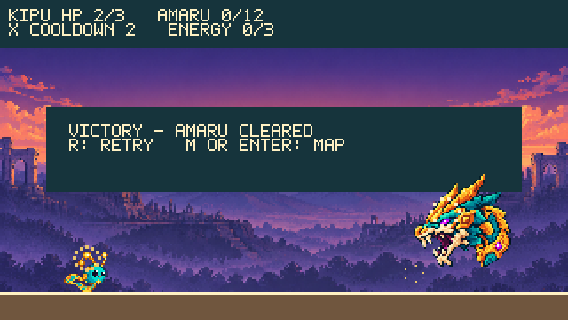
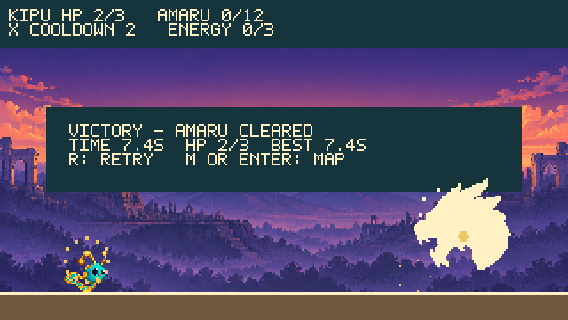
feat: add reduce-motion option and game-feel polish
Reduce motion starts from prefers-reduced-motion with a page override and
gates shake, flicker, sway, particles and squash/stretch. Adds a typed
title and breathing Kipu on the map, a victory panel with time and best,
and press feedback on page buttons. Principles adapted from public UI
motion guidance are recorded in the project skill references.

diff --git a/src/game/GuardianScene.ts b/src/game/GuardianScene.ts
@@ -8,6 +8,7 @@ import { KIPU_FRAMES, ParticlePool, bossAngle, burst, chargeLevel, drawParticles
 import { KipuAnimator } from './kipuAnimator';
 import { ensureKipuFrames } from './kipuTextures';
 import { sfx } from './sfx';
+import { motion } from './motion';
 import { initialProgress } from './challengeRules';
 import { VIEW_EVENT, FOCUS_EVENT, type ViewState } from './viewState';
 import kipuUrl from '../../assets/prepared/kipu-v4-32x40.png';
@@ -85,7 +86,7 @@ export class GuardianScene extends Phaser.Scene {
     const floor=this.physics.add.staticImage(160,172,'platform').setDisplaySize(320,16).refreshBody().setVisible(false);
     this.player=this.physics.add.sprite(48,145,'kipu-evaluation').setOrigin(0.5,0.55).setSize(12,18).setOffset(10,14).setCollideWorldBounds(true).setDepth(5);
     this.physics.add.collider(this.player,floor);
-    this.fx=new ParticlePool(64); this.fxGraphics=this.add.graphics().setDepth(6);
+    this.fx=new ParticlePool(64,() => motion.reduced); this.fxGraphics=this.add.graphics().setDepth(6);
     this.animator=new KipuAnimator(this.player,this.fx);
     this.boss=this.physics.add.sprite(260,126,'amaru-head').setDepth(4);
     (this.boss.body as Phaser.Physics.Arcade.Body).setAllowGravity(false).setImmovable(true);
@@ -112,7 +113,7 @@ export class GuardianScene extends Phaser.Scene {
         this.heroHP=damage(this.heroHP,1); this.invulnerableUntil=this.clock+COMBAT.invulnerability;
         sfx.play('heroHit');
         burst(this.fx,this.player.x,this.player.y-4,10,60,320,'violet',this.anim,2);
-        this.cameras.main.shake(110,0.006);
+        if (!motion.reduced) this.cameras.main.shake(110,0.006);
         this.finishIfNeeded();
       }
     });
@@ -177,13 +178,13 @@ export class GuardianScene extends Phaser.Scene {
     const body=this.player.body as Phaser.Physics.Arcade.Body;
     if (this.ending==='playing') {
       this.animator.update({now:this.anim,grounded:body.blocked.down||body.touching.down,velocityX:body.velocity.x,velocityY:body.velocity.y,
-        facing:this.facing,footX:this.player.x,footY:body.bottom,nokia:this.palette});
+        facing:this.facing,footX:this.player.x,footY:body.bottom,nokia:this.palette,reduced:motion.reduced});
       if (this.animator.event==='land') sfx.play('land');
     } else if (this.ending==='defeat') this.animator.hold('squash',false);
     let flash=this.anim<this.bossFlashUntil,angle=0,alpha=1;
     if (this.ending==='victory') {
       const t=this.anim-this.deathAt;
-      flash=t<500 && Math.floor(t/70)%2===0; angle=t<500 ? Math.sin(t/30)*4 : 0; alpha=t<500 ? 1 : Math.max(0,1-(t-500)/500);
+      flash=!motion.reduced && t<500 && Math.floor(t/70)%2===0; angle=!motion.reduced && t<500 ? Math.sin(t/30)*4 : 0; alpha=t<500 ? 1 : Math.max(0,1-(t-500)/500);
       while (this.deathBursts<3 && t>=this.deathBursts*180) {
         const i=this.deathBursts++;
         burst(this.fx,this.boss.x-10+i*10,this.boss.y-8+(i%2)*14,10,70,520,i%2?'gold':'light',this.anim,2);
@@ -194,7 +195,7 @@ export class GuardianScene extends Phaser.Scene {
         const elapsed=this.clock-this.attackStart,stage=attackStage(elapsed);
         phase=stage; phaseElapsed=stage==='anticipation'?elapsed:stage==='action'?elapsed-800:elapsed-1300;
       }
-      angle=bossAngle(phase,phaseElapsed,this.anim);
+      angle=motion.reduced ? 0 : bossAngle(phase,phaseElapsed,this.anim);
     }
     const key=flash ? (this.palette?'amaru-head-flash-nokia':'amaru-head-flash') : (this.palette?'amaru-head-nokia':'amaru-head');
     if (this.boss.texture.key!==key) this.boss.setTexture(key);
@@ -262,7 +263,14 @@ export class GuardianScene extends Phaser.Scene {
     this.publishView();
     for (const group of [this.shots,this.enemies]) for(const child of group.getChildren()) (child as Sprite).disableBody(true,true);
     this.physics.world.pause(); this.player.setVisible(true); this.togglePalette(false);
-    this.draw(); this.result.setText(`${this.ending.toUpperCase()} - ${this.ending==='victory'?'AMARU CLEARED':'TRY AGAIN'}\nR: RETRY   M OR ENTER: MAP`);
+    this.draw(); this.result.setText(`${this.ending.toUpperCase()} - ${this.ending==='victory'?'AMARU CLEARED':'TRY AGAIN'}\n${this.statsLine()}R: RETRY   M OR ENTER: MAP`);
+  }
+  // Session-only stats on the victory panel; read from the owned clock, never fed back into combat.
+  private statsLine(): string {
+    if (this.ending!=='victory') return '';
+    const time=this.clock/1000,best=Math.min(time,this.registry.get('bestTime') ?? Infinity);
+    this.registry.set('bestTime',best);
+    return `TIME ${time.toFixed(1)}S  HP ${this.heroHP}/3  BEST ${best.toFixed(1)}S\n`;
   }
   private text(x:number,y:number,text:string): Phaser.GameObjects.BitmapText { return this.add.bitmapText(x,y,RETRO_FONT,text,6).setTint(0xfff1c3); }
   private preparePalette(key:string): void {
@@ -308,7 +316,7 @@ export class GuardianScene extends Phaser.Scene {
     }
     if(active) {
       // Hard-pixel square aura and orbiting stored energy avoid blended fifth colors.
-      const inset=Math.floor(this.anim/200)%2 ? 2 : 0;
+      const inset=!motion.reduced && Math.floor(this.anim/200)%2 ? 2 : 0;
       this.pixelFrame(Math.round(this.player.x)-52+inset,Math.round(this.player.y)-52+inset,104-2*inset,104-2*inset,colors[2]);
       for(let i=0;i<this.shift.captured;i++) {
         const angle=this.clock/190+i*Math.PI*2/3;

diff --git a/src/game/MapScene.ts b/src/game/MapScene.ts
@@ -4,14 +4,22 @@ import { RETRO_FONT } from './retroFont';
 import { initialProgress, type Progress } from './challengeRules';
 import { VIEW_EVENT, type ViewState } from './viewState';
 import { headUrl, arenaUrl } from './demoAssets';
-import { bossAngle } from './animation';
+import { bossAngle, kipuFrame, kipuTextureKey } from './animation';
+import { ensureKipuFrames } from './kipuTextures';
+import { motion } from './motion';
+import kipuUrl from '../../assets/prepared/kipu-v4-32x40.png';
 import { sfx } from './sfx';
 
 export class MapScene extends Phaser.Scene {
   private head!: Phaser.GameObjects.Image;
   private cursor!: Phaser.GameObjects.Graphics;
+  private kipu!: Phaser.GameObjects.Image;
+  private title!: Phaser.GameObjects.BitmapText;
+  private titleStart = 0;
+  private titleDone = true;
   constructor() { super('MapScene'); }
   preload(): void {
+    if (!this.textures.exists('kipu-evaluation')) this.load.image('kipu-evaluation', kipuUrl);
     if (!this.textures.exists('amaru-head')) this.load.image('amaru-head', headUrl);
     if (!this.textures.exists('amaru-arena')) this.load.image('amaru-arena', arenaUrl);
   }
@@ -19,7 +27,14 @@ export class MapScene extends Phaser.Scene {
     if (!this.registry.has('progress')) this.registry.set('progress', initialProgress());
     createRetroFont(this);
     this.cameras.main.setBackgroundColor(0x122e36);
-    this.text(46, 12, 'CHOOSE YOUR CHALLENGE', 0xedc76c);
+    // The title types in once per session; every later visit is instant (keyboard-initiated returns never animate).
+    this.title = this.text(46, 12, 'CHOOSE YOUR CHALLENGE', 0xedc76c);
+    this.titleDone = motion.reduced || this.registry.get('introSeen') === true;
+    this.titleStart = -1; // anchored to the first update frame
+    if (!this.titleDone) this.title.setText('');
+    this.registry.set('introSeen', true);
+    ensureKipuFrames(this);
+    this.kipu = this.add.image(176, 94, 'kipu-evaluation');
     this.add.image(86, 78, 'amaru-arena').setDisplaySize(128,72).setAlpha(0.65);
     this.head = this.add.image(232, 78, 'amaru-head');
     this.cursor = this.add.graphics();
@@ -41,8 +56,17 @@ export class MapScene extends Phaser.Scene {
   }
   // Purely visual: idle sway on the guardian preview and a bobbing pixel cursor beside the default action.
   update(time: number): void {
-    this.head.setAngle(bossAngle('idle', 0, time));
-    const nudge = Math.floor(time / 400) % 2;
+    const reduced = motion.reduced;
+    this.head.setAngle(reduced ? 0 : bossAngle('idle', 0, time));
+    const frame = reduced ? 'idle' : kipuFrame({ grounded: true, velocityX: 0, velocityY: 0, now: time, landedAt: -Infinity });
+    this.kipu.setTexture(kipuTextureKey(frame, false));
+    if (!this.titleDone) {
+      if (this.titleStart < 0) this.titleStart = time;
+      const full = 'CHOOSE YOUR CHALLENGE', shown = Math.floor((time - this.titleStart) / 30);
+      this.title.setText(full.slice(0, Math.max(0, shown)));
+      this.titleDone = shown >= full.length;
+    }
+    const nudge = reduced ? 0 : Math.floor(time / 400) % 2;
     this.cursor.clear().fillStyle(0xedc76c);
     for (let column = 0; column < 4; column++) this.cursor.fillRect(57 + nudge + column, 139 + column, 1, 7 - 2 * column);
   }

diff --git a/tests/motion.test.ts b/tests/motion.test.ts
@@ -1,0 +1,35 @@
+import { describe, expect, it } from 'vitest';
+import { Motion } from '../src/game/motion';
+import { ParticlePool, bossAngle } from '../src/game/animation';
+import { KipuAnimator } from '../src/game/kipuAnimator';
+
+describe('Motion preference', () => {
+  it('starts from the system preference and can be overridden both ways', () => {
+    const m = new Motion(() => true);
+    expect(m.reduced).toBe(true);
+    m.set(false); expect(m.reduced).toBe(false);
+    expect(new Motion(() => false).reduced).toBe(false);
+  });
+  it('defaults to full motion when matchMedia is unavailable', () => {
+    expect(new Motion().reduced).toBe(false);
+  });
+});
+
+describe('reduced motion gates decorative effects only', () => {
+  it('suppresses particle emission while the predicate holds', () => {
+    let reduced = true;
+    const pool = new ParticlePool(4, () => reduced);
+    expect(pool.emit({ x: 0, y: 0, vx: 0, vy: 0, ttl: 100, slot: 'light', size: 1 }, 0)).toBe(false);
+    reduced = false;
+    expect(pool.emit({ x: 0, y: 0, vx: 0, vy: 0, ttl: 100, slot: 'light', size: 1 }, 0)).toBe(true);
+  });
+  it('keeps Kipu on the neutral frame when reduced', () => {
+    const s = { texture: { key: 'kipu-evaluation' }, setTexture(key: string) { s.texture.key = key; } };
+    const a = new KipuAnimator(s, new ParticlePool(8));
+    a.update({ now: 0, grounded: false, velocityX: 0, velocityY: -250, facing: 1, footX: 0, footY: 0, nokia: false, reduced: true });
+    expect(s.texture.key).toBe('kipu-evaluation');
+  });
+  it('lets the boss angle callers zero rotation; the pure function itself stays bounded', () => {
+    expect(Math.abs(bossAngle('anticipation', 800, 0))).toBeLessThanOrEqual(12);
+  });
+});

diff --git a/src/game/ArcadeScene.ts b/src/game/ArcadeScene.ts
@@ -9,6 +9,7 @@ import { ParticlePool, burst, drawParticles } from './animation';
 import { KipuAnimator } from './kipuAnimator';
 import { ensureKipuFrames } from './kipuTextures';
 import { sfx } from './sfx';
+import { motion } from './motion';
 import { arenaUrl } from './demoAssets';
 import { VIEW_EVENT, FOCUS_EVENT, type ViewState } from './viewState';
 import kipuEvaluationUrl from '../../assets/prepared/kipu-v4-32x40.png';
@@ -103,7 +104,7 @@ export class ArcadeScene extends Phaser.Scene {
     // Align the occupied scarf edge to the surface while preserving the body at (-6, -8).
     this.player.setSize(12, 18).setOffset(10, 14);
     this.physics.add.collider(this.player, platforms);
-    this.fx = new ParticlePool(64);
+    this.fx = new ParticlePool(64, () => motion.reduced);
     this.fxGraphics = this.add.graphics().setDepth(6);
     this.animator = new KipuAnimator(this.player, this.fx);
 
@@ -197,7 +198,7 @@ export class ArcadeScene extends Phaser.Scene {
     const body = this.player.body as Phaser.Physics.Arcade.Body;
     if (!this.completed) {
       this.animator.update({ now: this.animClock, grounded: body.blocked.down || body.touching.down, velocityX: body.velocity.x, velocityY: body.velocity.y,
-        facing: this.facing, footX: this.player.x, footY: body.bottom, nokia: false });
+        facing: this.facing, footX: this.player.x, footY: body.bottom, nokia: false, reduced: motion.reduced });
       if (this.animator.event === 'land') sfx.play('land');
     }
     const cycle = Math.floor(this.animClock / 1100);

diff --git a/src/main.ts b/src/main.ts
@@ -5,6 +5,7 @@ import { MapScene } from './game/MapScene';
 import { GuardianScene } from './game/GuardianScene';
 import { GAME } from './game/rules';
 import { sfx } from './game/sfx';
+import { motion } from './game/motion';
 import { initialProgress } from './game/challengeRules';
 import { VIEW_EVENT, FOCUS_EVENT, sceneForView, viewCopy, type ViewState, type View } from './game/viewState';
 
@@ -43,6 +44,13 @@ function focusState(): void {
   sfx.setActive(active);
   game.events.emit(FOCUS_EVENT,active);
 }
+function syncMotionButton():void {
+  const button=document.getElementById('motion')!;
+  button.textContent=motion.reduced?'Reduce motion: on':'Reduce motion: off';
+  button.setAttribute('aria-pressed',String(motion.reduced));
+}
+function toggleMotion():void { motion.set(!motion.reduced); syncMotionButton(); host!.focus(); focusState(); }
+syncMotionButton();
 function toggleSound():void {
   sfx.setMuted(!sfx.isMuted());
   const button=document.getElementById('sound')!;
@@ -64,6 +72,7 @@ const clickNav=(event:Event)=>{
   if(!button) return;
   const view=button.dataset.view as View|undefined;
   if(button.id==='sound') toggleSound();
+  else if(button.id==='motion') toggleMotion();
   else if(view) navigate(view);
   else if(button.id==='choose') navigate('map');
   else if(button.id==='retry') navigate(current.view);

diff --git a/src/game/kipuAnimator.ts b/src/game/kipuAnimator.ts
@@ -6,7 +6,7 @@ export const KIPU_BAND = Object.freeze({ top: 9, bottom: 32 });
 // Structural slice of a Phaser sprite so the animator stays testable without a browser.
 export interface KipuSprite { texture: { key: string }; setTexture(key: string): unknown }
 
-export interface KipuTick { now: number; grounded: boolean; velocityX: number; velocityY: number; facing: 1 | -1; footX: number; footY: number; nokia: boolean }
+export interface KipuTick { now: number; grounded: boolean; velocityX: number; velocityY: number; facing: 1 | -1; footX: number; footY: number; nokia: boolean; reduced?: boolean }
 
 // Pure visual follower: reads physics state, never writes it. Swaps only the texture key (same 32x40 frame),
 // so origin, body size and offset are untouched.
@@ -37,7 +37,7 @@ export class KipuAnimator {
     }
     this.wasGrounded = grounded;
     this.lastVelocityY = velocityY;
-    const frame = kipuFrame({ grounded, velocityX, velocityY, now, landedAt: this.landedAt });
+    const frame = tick.reduced ? 'idle' : kipuFrame({ grounded, velocityX, velocityY, now, landedAt: this.landedAt });
     const key = kipuTextureKey(frame, nokia);
     this.frame = frame;
     if (this.sprite.texture.key !== key) this.sprite.setTexture(key);

diff --git a/src/style.css b/src/style.css
@@ -16,8 +16,14 @@ canvas { display: block; image-rendering: pixelated; }
 
 h2 { margin: 10px 0; font-size: clamp(18px, 3vw, 24px); }
 #navigation { display: flex; flex-wrap: wrap; justify-content: center; gap: 8px; margin: 12px 0 18px; }
-button { font: inherit; font-weight: 600; padding: 10px 14px; border: 1px solid #64d6c7; border-radius: 6px; background: #213f4b; color: #e7e6cf; cursor: pointer; }
+button { font: inherit; font-weight: 600; padding: 10px 14px; border: 1px solid #64d6c7; border-radius: 6px; background: #213f4b; color: #e7e6cf; cursor: pointer;
+  /* Named properties only, ease-out so feedback starts immediately; nothing animates on keyboard-driven game actions. */
+  transition: transform 120ms cubic-bezier(0.23, 1, 0.32, 1), background-color 120ms ease, border-color 120ms ease; }
+@media (hover: hover) { button:hover { background: #2a4c59; } }
+button:active { transform: scale(0.97); }
 button[aria-pressed="true"] { background: #345b60; border-color: #edc76c; }
 button:focus-visible { outline: 3px solid #edc76c; outline-offset: 3px; }
 button[hidden] { display: none; }
 #view-result { line-height: 1.5; }
+
+@media (prefers-reduced-motion: reduce) { button { transition: none; } button:active { transform: none; } }

diff --git a/src/game/animation.ts b/src/game/animation.ts
@@ -80,11 +80,12 @@ export type ParticleSpec = Omit<Particle, 'born' | 'active'>;
 // Fixed capacity, no allocation after construction; a full pool drops new particles by design.
 export class ParticlePool {
   readonly items: Particle[];
-  constructor(capacity: number) {
+  constructor(capacity: number, private readonly suppressed: () => boolean = () => false) {
     this.items = Array.from({ length: capacity }, () => ({ x: 0, y: 0, vx: 0, vy: 0, born: 0, ttl: 0, slot: 'light' as FxSlot, size: 1, active: false }));
   }
   get activeCount(): number { return this.items.reduce((count, p) => count + (p.active ? 1 : 0), 0); }
   emit(spec: ParticleSpec, now: number): boolean {
+    if (this.suppressed()) return false;
     const slot = this.items.find(p => !p.active);
     if (!slot) return false;
     Object.assign(slot, spec, { born: now, active: true });

diff --git a/src/game/motion.ts b/src/game/motion.ts
@@ -1,0 +1,13 @@
+// Session-wide "reduce motion" preference. Starts from the OS setting; the page button can override it.
+// It gates decorative motion only (shake, flicker, sway, particles, squash/stretch), never gameplay telegraphs.
+const systemPrefersReduced = (): boolean =>
+  typeof matchMedia === 'function' && matchMedia('(prefers-reduced-motion: reduce)').matches;
+
+export class Motion {
+  private value: boolean;
+  constructor(initial: () => boolean = systemPrefersReduced) { this.value = initial(); }
+  get reduced(): boolean { return this.value; }
+  set(value: boolean): void { this.value = value; }
+}
+
+export const motion = new Motion();

diff --git a/index.html b/index.html
@@ -17,6 +17,7 @@
         <button type="button" id="choose" hidden>Choose challenge</button>
         <button type="button" id="retry" hidden>Retry challenge</button>
         <button type="button" id="sound" aria-pressed="true">Sound: on</button>
+        <button type="button" id="motion" aria-pressed="false">Reduce motion: off</button>
       </nav>
       <div id="game" tabindex="0" aria-label="PachaByte keyboard-controlled game. Click to focus, then use the controls below."></div>
       <p class="controls" id="view-help"></p>

diff --git a/docs/VERIFICATION.md b/docs/VERIFICATION.md
@@ -239,3 +239,12 @@ User approved WebAudio effects. All 16 effects are generated at runtime from osc
 Observed in this checkout: typecheck exit 0; unit tests passed including 7 new sfx tests and the animator event test; build exit 0; `test:browser` serial on owned port 4175 passed in WebGL and in Canvas, including a new group that asserts effects fire from real input, the mute button silences them and focus returns to the game. Tests were written before `sfx.ts` but not executed before implementing, so no RED is claimed.
 
 Limits: automation proves that sounds are scheduled and gated, not how they sound. Loudness, pitch and taste need a human listening pass. No music. Real output-device behavior across browsers and OSes is untested.
+
+
+## Reduced motion and polish pass, October 12, 2026
+
+Added: reduce-motion option (OS `prefers-reduced-motion` initialises it; page button overrides; gates shake, flicker, sway, particles, squash/stretch and button transitions, never gameplay telegraphs); once-per-session typed title and breathing Kipu on the map; victory panel with time, remaining HP and session best; button press feedback with named-property transitions. Principles were read from Emil Kowalski's and Hallmark's `SKILL.md` files without installing anything (see `skills/pachabyte-gameplay-quality/references/ui-motion-principles.md`). Hit-stop was deliberately not added because it would alter the owned combat clock.
+
+Observed: typecheck exit 0; 71/71 unit tests (5 new motion tests, RED observed on the missing module first); build exit 0; browser smoke passed in WebGL and Canvas, including a new reduced-motion group and a victory-stats assertion; the relative Vite base was also verified by serving the build under a `/pachabyte/` subpath and running the full smoke against it.
+
+Retained failures: during this pass four serial smoke runs failed intermittently (WebGL: "airborne repress must not reset jump velocity" at the `w` jump binding; Canvas: waitForFunction timeouts at three different stages). They coincided with about 49% machine CPU load and an idle game tab still running in the in-app browser; a 12-iteration jump loop reproduced 0 misses in each renderer, and after the tab was released and load fell to about 13%, Canvas passed twice and WebGL passed twice. Cause is plausible (wall-clock timing between Playwright round trips under CPU load) but not proven; the assertions were not weakened. Same class as the earlier single-hit flake.

diff --git a/skills/pachabyte-gameplay-quality/references/ui-motion-principles.md b/skills/pachabyte-gameplay-quality/references/ui-motion-principles.md
@@ -1,0 +1,16 @@
+# UI and motion principles adopted for PachaByte
+
+Source: principles read (not installed) from the `SKILL.md` files of Emil Kowalski's skills (MIT) and Nutlope's Hallmark (MIT), October 12, 2026. They target web UI, so only the parts that fit a canvas game with a small HTML shell were adapted. No code or text was copied; nothing third-party was installed.
+
+| Principle | How it applies here |
+|---|---|
+| Ask how often users see it. Never animate high-frequency, keyboard-initiated actions | Retry (R), map (M) and scene changes have no transitions. The title types in once per session only. |
+| Every animation needs a purpose: feedback, state, spatial consistency | Dust and bursts confirm landing, hits and captures. Amaru's rear-back, lunge and charge telegraph attacks. Nothing is decoration-only on a loop except idle breathing and sway. |
+| Entrances use ease-out, never ease-in; UI under 300 ms | Page buttons use `cubic-bezier(0.23, 1, 0.32, 1)` at 120 ms. Hit flashes are 80-150 ms. |
+| Name the properties; never `transition: all` | Buttons transition `transform`, `background-color`, `border-color` only. |
+| Press feedback on controls | Buttons scale to 0.97 on `:active`. |
+| Respect reduced motion | `prefers-reduced-motion` and a page toggle disable shake, flicker, sway, squash/stretch, particles and the transition. Gameplay telegraphs stay. |
+| Avoid the "AI look": gradients, pure black/white, card grids | The shell keeps its tinted teal and gold palette, no gradients, no cards. |
+| Taste is trained: study why it feels right, then iterate | Human playtest stays the acceptance gate; automation proves behavior only. |
+
+Not adopted: React/Framer Motion springs, Tailwind or component-library advice, SwiftUI skills, and hit-stop (it would change the owned combat clock and attack timing, which this project keeps untouched).
